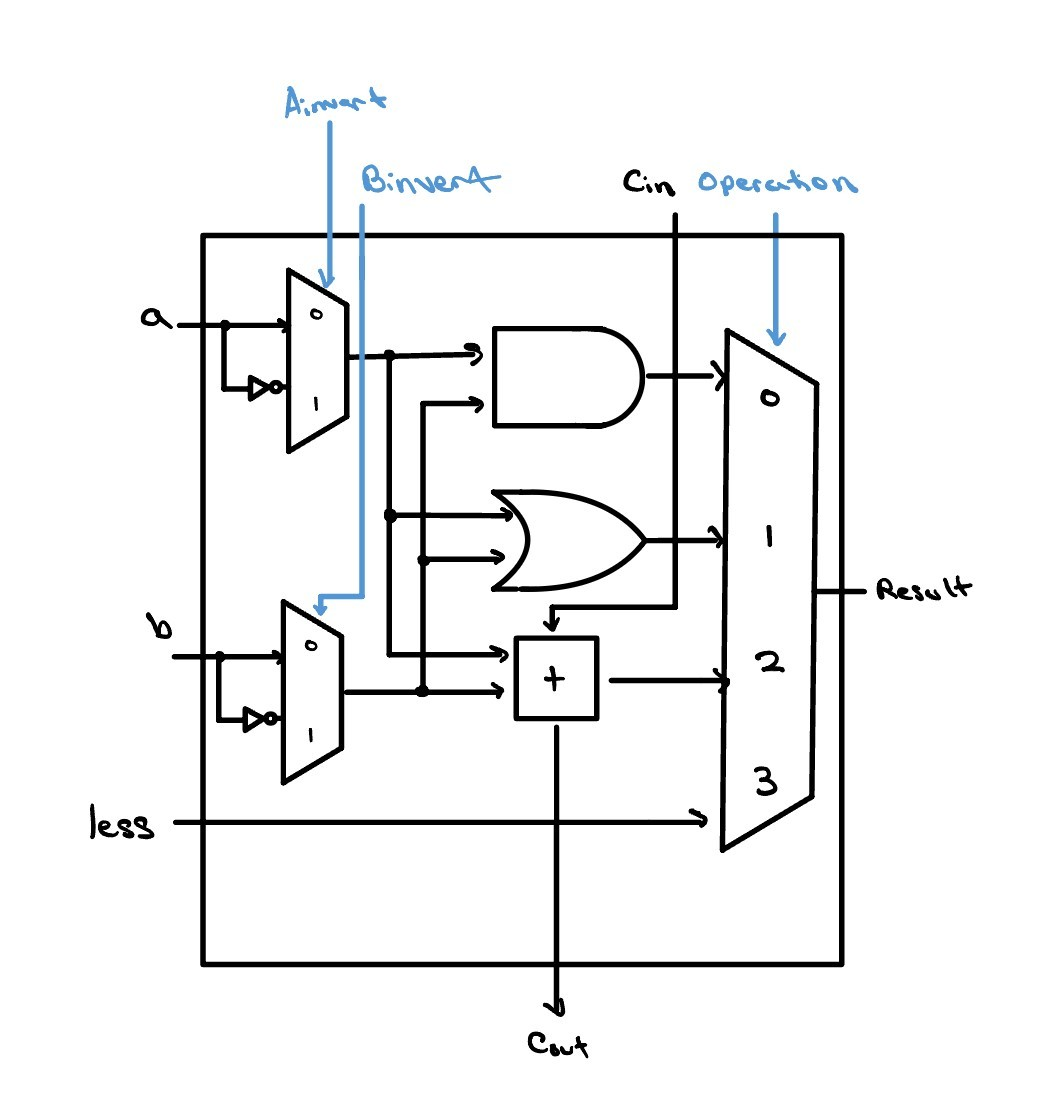
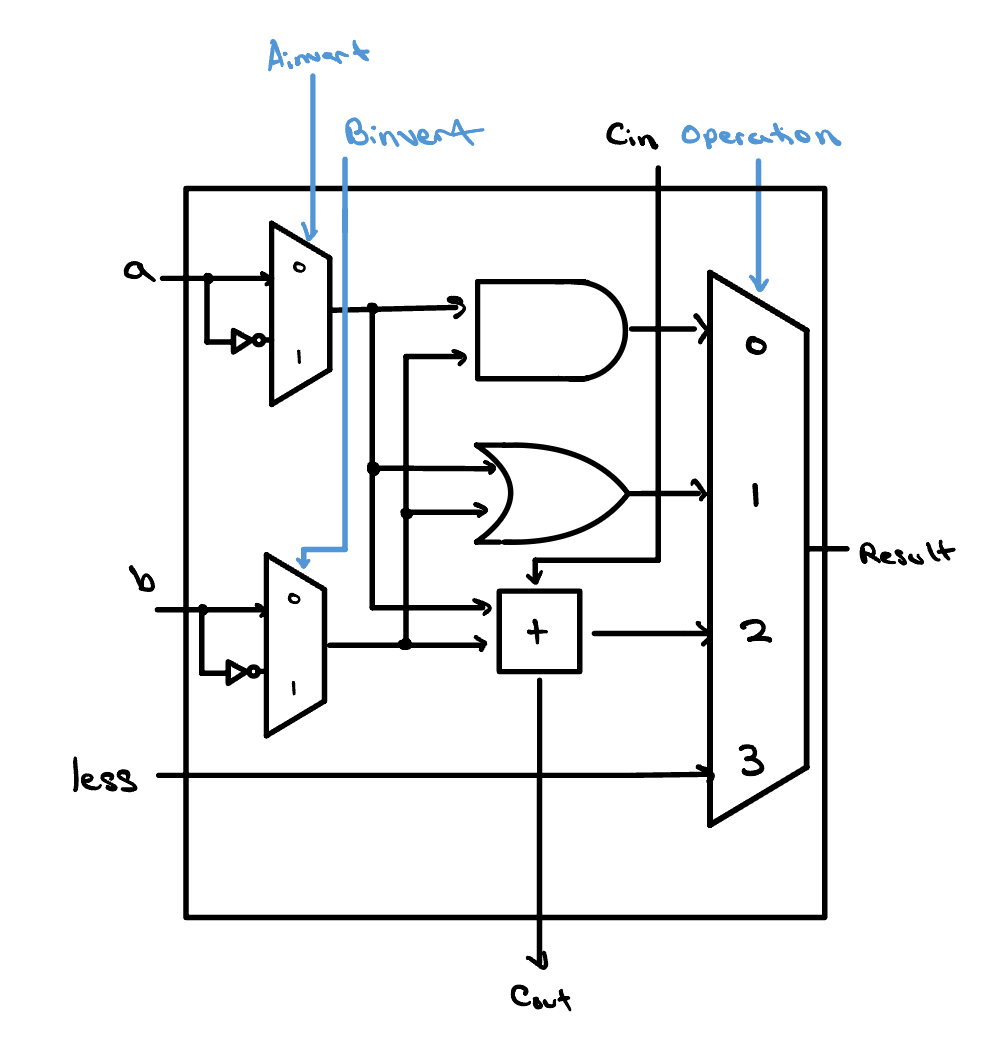
ALU Slice: add The Final Upgrade section; split slice schematic into LSB/MSB images; copy and spacing fixes
- alu-slice: new 'The Final Upgrade' section covering the less/set signals and slt; refresh Check Yourself image; tighten Addition Incoming heading spacing; copy tweaks
- main.js: drop duplicate 'Ripple Carry Adder' directory entry (covered by the Full Adder lesson)
- assets: replace slice-architecture-lsb.jpg, add slice-architecture-msb.jpg, retire combined slice-architecture.jpg
- alu index: point slice figure at the MSB schematic

Changed region(s): [[0.0623, 0.0305, 0.9658, 0.9762]]

diff --git a/alu/alu-slice/index.html b/alu/alu-slice/index.html
@@ -185,9 +185,10 @@
               As soon as we increase the number of inputs in a multiplexer beyond
               two, a single control bit is no longer enough. We need at least
               <strong>two</strong> control bits to select which path is transmitted
-              to the output. With two bits we technically have the ability to choose
-              from any one of <em>four</em> inputs, which is why multiplexers usually
-              grow in powers of two. For simplicity, in our image we've only drawn
+              to the output. With two bits, we technically have the ability to choose
+              from any one of <em>four</em> inputs, and every additional bit we add to the select
+              signal, the amount of inputs we can choose from increases by a power of
+              2. For simplicity, in our image we've only drawn
               the three inputs we actually use; the fourth is left out because it
               could technically be anything, so long as our operation bits never take
               on the value <code>11</code>. A situation like this &mdash; where an
@@ -211,6 +212,82 @@
       </div>
     </section>
 
+    <!-- ============================== THE FINAL UPGRADE ================== -->
+    <section class="section" id="final-upgrade" aria-labelledby="fu-title">
+      <div class="container container--wide">
+        <div class="section__head">
+          <h2 id="fu-title">The Final Upgrade</h2>
+        </div>
+
+        <div class="split">
+          <div class="prose">
+            <p>
+              There's one operation our ALU still can't perform:
+              <strong>set on less than</strong>, or <code>slt</code>. It asks a
+              single question &mdash; is <code>a</code> less than <code>b</code>?
+              &mdash; and produces a result of <code>1</code> when the answer is
+              yes and <code>0</code> when it's no.
+            </p>
+            <p>
+              To make room for that answer, we add a fourth input to the operation
+              multiplexer called <strong>less</strong>. When the control bits
+              select <code>slt</code>, the mux ignores the AND, OR, and adder
+              results and passes <code>less</code> straight through to the
+              <code>Result</code>. Each slice's output for an <code>slt</code> is
+              simply whatever value is sitting on its <code>less</code> line.
+            </p>
+          </div>
+
+          <figure class="figure figure--photo">
+            <img src="../../assets/ALU/slice-architecture-lsb.jpg?v=2"
+                 alt="The least-significant-bit ALU slice with a new 'less' input added to the operation multiplexer: a and b pass through their invert muxes into an AND gate, an OR gate, and an adder, and the 4-to-1 mux now selects among AND, OR, the adder sum, and the 'less' input to produce the Result."
+                 decoding="async" />
+          </figure>
+        </div>
+
+        <div class="split split--media-left">
+          <figure class="figure figure--photo">
+            <img src="../../assets/ALU/slice-architecture-msb.jpg"
+                 alt="The most-significant-bit ALU slice: the same slice as before, but its adder produces an extra 'set' output — the sign bit of a minus b — which is routed back down to the 'less' input of the least-significant slice."
+                 decoding="async" />
+          </figure>
+
+          <div class="prose">
+            <p>
+              But where does that <code>less</code> value come from? Here's the
+              clever part. To decide whether <code>a &lt; b</code>, we lean on the
+              subtractor we already built: <code>a &lt; b</code> exactly when
+              <code>a &minus; b</code> is negative &mdash; and a two's-complement
+              number is negative precisely when its <strong>most significant
+              bit</strong> is <code>1</code>.
+            </p>
+            <p>
+              So we give the most significant slice one extra output,
+              <strong>set</strong> &mdash; the sign bit of <code>a &minus; b</code>
+              coming straight out of its adder. We then route <code>set</code> all
+              the way back down to the <code>less</code> input of the
+              <em>least</em> significant slice. When <code>slt</code> runs, every
+              slice outputs <code>0</code> except the least significant one, which
+              outputs <code>set</code>: a clean 32-bit result of either
+              <code>0&hellip;000</code> (when <code>a &ge; b</code>) or
+              <code>0&hellip;001</code> (when <code>a &lt; b</code>).
+            </p>
+            <p>
+              This is also why the <code>less</code> input is
+              <strong>hard-wired to 0</strong> on every slice except the least
+              significant one. Only bit&nbsp;0 ever needs to carry the
+              comparison's outcome; all the higher bits of an <code>slt</code>
+              result are always <code>0</code>. Rather than snake the
+              <code>set</code> signal into all 32 slices, we tie their
+              <code>less</code> inputs to a constant <code>0</code> and feed the
+              single meaningful value &mdash; <code>set</code> &mdash; into
+              bit&nbsp;0 alone.
+            </p>
+          </div>
+        </div>
+      </div>
+    </section>
+
     <!-- ============================== CHECK YOURSELF ===================== -->
     <section class="section section--tight" id="check" aria-labelledby="check-title">
       <div class="container container--wide">
@@ -224,7 +301,7 @@
 
           <div class="quiz__reveal">
             <figure class="figure figure--photo quiz__figure quiz__figure--slice">
-              <img src="../../assets/ALU/slice-architecture-lsb.jpg"
+              <img src="../../assets/ALU/slice-architecture-lsb.jpg?v=2"
                    alt="The least-significant-bit ALU slice: a and b each pass through an invert mux (Ainvert, Binvert), then feed an AND gate, an OR gate, and an adder; a 4-to-1 Operation mux selects AND, OR, the adder, or a 'less' input as the Result, with a carry-in Cin and carry-out Cout on the adder."
                    decoding="async" />
             </figure>

diff --git a/alu/index.html b/alu/index.html
@@ -272,14 +272,13 @@
         </div>
 
         <figure class="figure figure--wide">
-          <img src="../assets/ALU/slice-architecture.jpg"
-               alt="Two side-by-side schematics of a 1-bit ALU slice. Each shows operand a and b entering 2:1 inverting multiplexers controlled by Ainvert and Binvert, feeding an AND gate, an OR gate, and a full adder, whose outputs enter a 4:1 result multiplexer selected by the operation control. The left schematic outputs a carry-out. The right schematic adds an overflow-detection block and a set output."
+          <img src="../assets/ALU/slice-architecture-msb.jpg"
+               alt="Schematic of the most-significant-bit ALU slice. Operands a and b enter 2:1 inverting multiplexers controlled by Ainvert and Binvert, feeding an AND gate, an OR gate, and a full adder whose outputs enter a 4:1 result multiplexer selected by the operation control. It adds an overflow-detection block and a set output used for signed comparison."
                loading="lazy" decoding="async" />
           <figcaption>
-            <strong>Left:</strong> the generic <code>alu_slice</code> used for bits
-            0&nbsp;…&nbsp;N&minus;2. <strong>Right:</strong> the <code>alu_msb</code>
-            for bit N&minus;1, which adds the overflow-detection block and the
-            <code>set</code> output used for signed comparison.
+            The <code>alu_msb</code> slice for bit N&minus;1, which adds the
+            overflow-detection block and the <code>set</code> output used for
+            signed comparison.
           </figcaption>
         </figure>
       </div>

diff --git a/styles/alu.css b/styles/alu.css
@@ -425,6 +425,10 @@
 }
 .split .prose { margin: 0; }
 .split .figure { margin: 0; }
+/* Addition Incoming: pull the heading nearer the copy, and top-align the text
+   with the top of the timing widget instead of vertically centering it. */
+#addition-incoming .section__head { margin-bottom: var(--space-2); }
+#addition-incoming .split { margin-top: var(--space-2); align-items: start; }
 /* "Your First ALU": on desktop the diagram sits beside the explanation (via the
    base .split grid — prose left, card right). On phones it stacks, with the
    diagram first (see it, then read about it). */

diff --git a/scripts/main.js b/scripts/main.js
@@ -122,7 +122,6 @@
       ["ALU", [
         ["Logic Gates and Simple 1-bit ALU", "alu/logic-gates/"],
         ["Full Adder and Ripple Carry Adder", "alu/full-adder/"],
-        "Ripple Carry Adder",
         ["32-bit ALU Slice", "alu/alu-slice/"],
         "Complete 32-bit ALU",
         "Testing",
